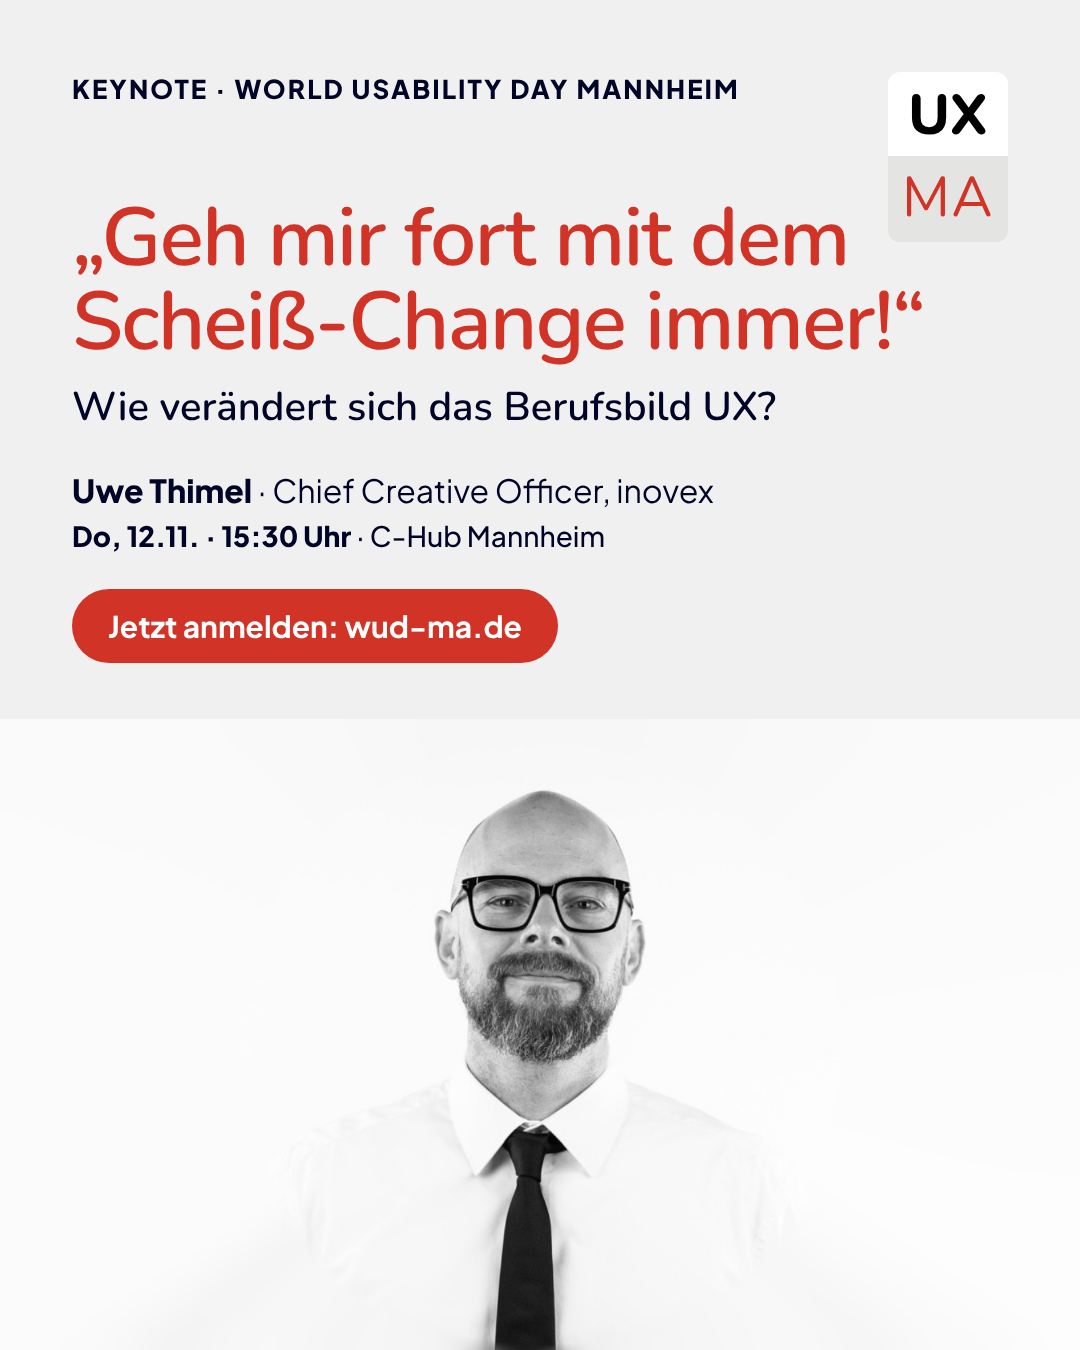
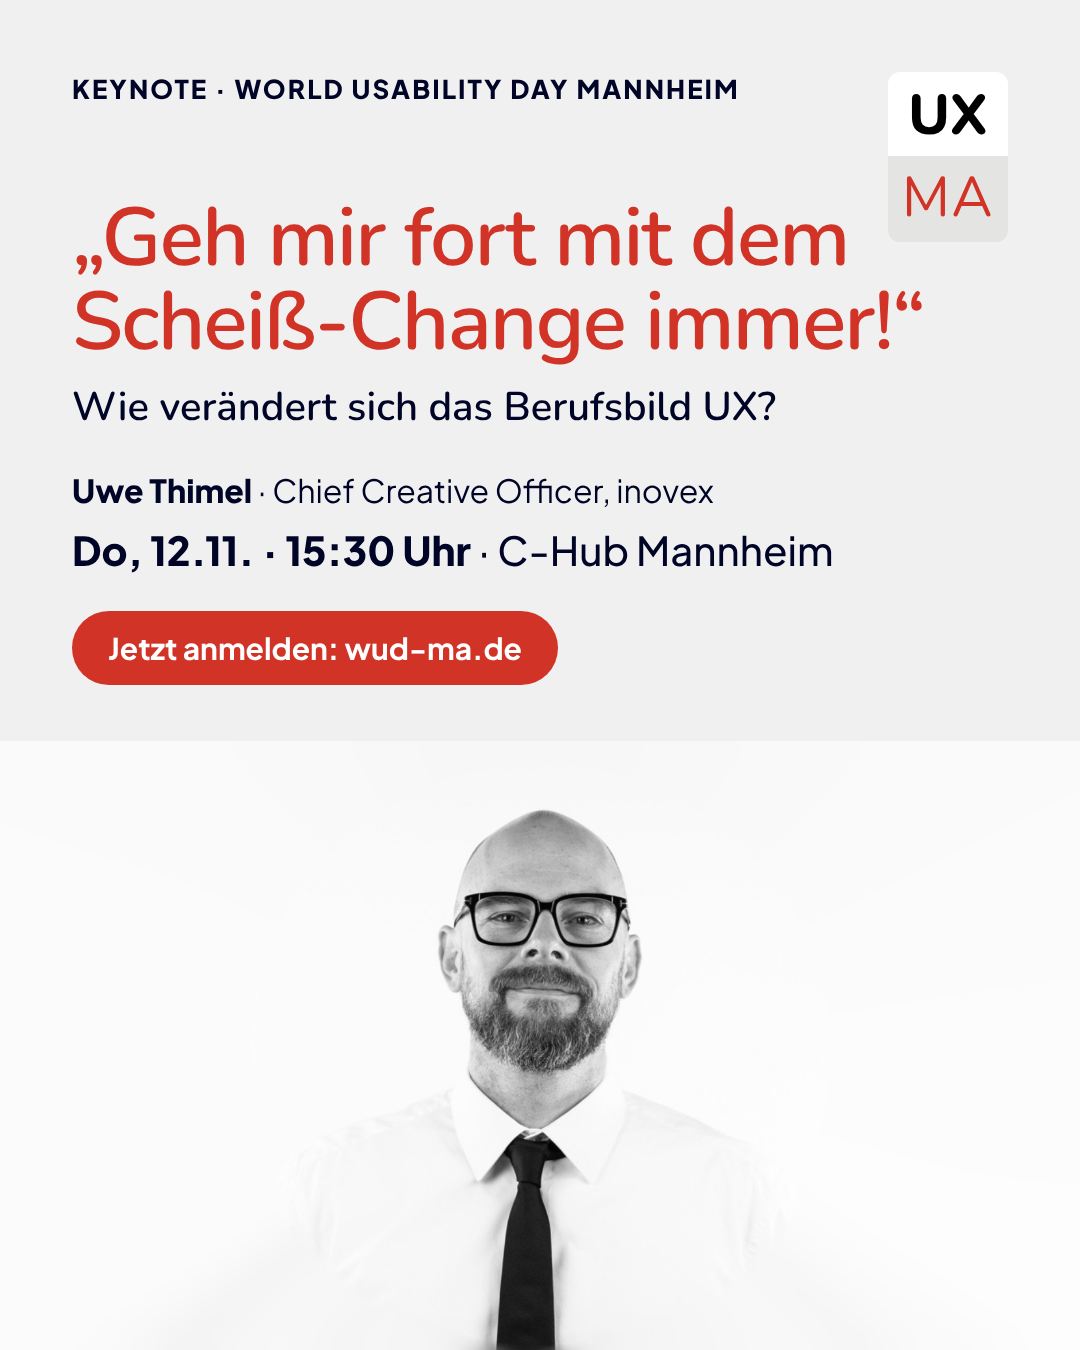
Keynote klassisch: Datum und Ort größer
Claude-Session: https://claude.ai/code/session_01FdBpF3p1XTs9Kowkd1XXbf

Changed region(s): [[0.0611, 0.3733, 0.7639, 0.5289], [0.3972, 0.56, 0.6111, 0.9022]]

diff --git a/assets/src/keynote-speaker.html b/assets/src/keynote-speaker.html
@@ -44,7 +44,7 @@
   .subtitle { margin-top: 20px; font-family: var(--font-head); font-weight: 600; font-size: 40px; line-height: 1.15; }
   .speaker { margin-top: 40px; font-size: 32px; }
   .speaker b { font-weight: 800; }
-  .classic-meta { margin-top: 8px; font-size: 28px; }
+  .classic-meta { margin-top: 14px; font-size: 40px; }
   .share-cta { position: absolute; left: 50%; bottom: 64px; transform: translateX(-50%); white-space: nowrap; font-size: 32px; padding: 20px 40px; }
   .note-at { left: 760px; top: 110px; width: 230px; height: 210px; font-size: 42px; transform: rotate(6deg); line-height: 1.1; }
 
